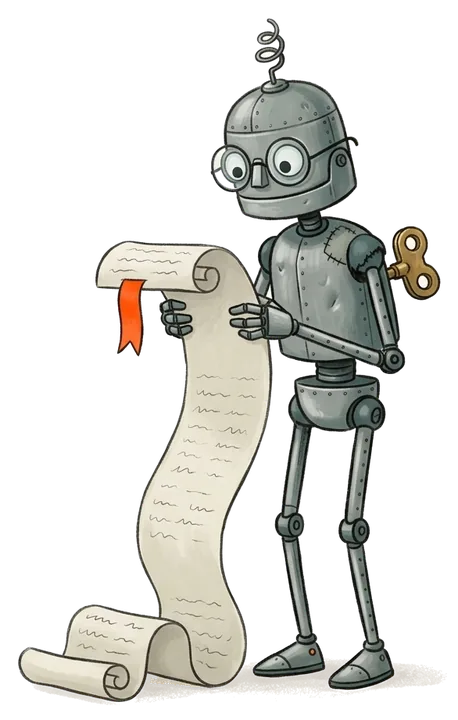
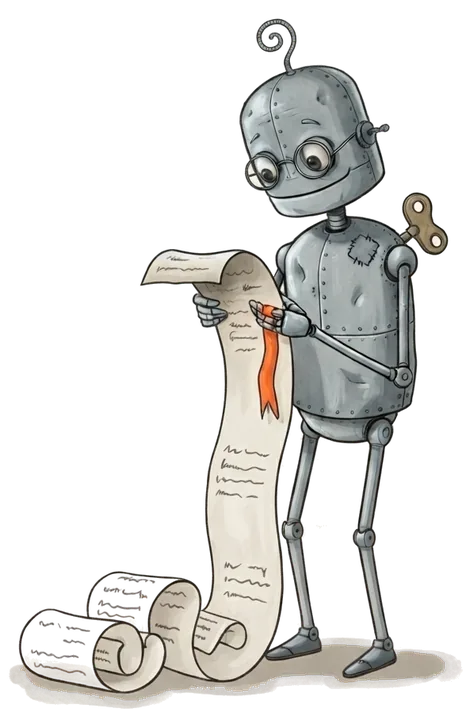
OD-157: use the daytime and nocturnal robot editions from Stitch
Each robot now has two editions, regenerated in Stitch: a daytime one on
paper and a nocturnal one with orange glows. Both are cut out to transparent
WebP; the light ones un-multiply the paper, the dark ones un-screen the night
ground, so shadows and glows stay translucent.

The theme picks the edition, following the device or the theme switch
(.robot-light and .robot-dark in globals.css). Lazy robots only download the
edition on screen; the eager header robots load both.

Claude-Session: https://claude.ai/code/session_018XMo65vPnKdNKwXLdbrnLU

diff --git a/site/src/components/robot.tsx b/site/src/components/robot.tsx
@@ -1,38 +1,40 @@
 // The Open DS robots (OD-157): a family of tin robots, each doing one design-system job.
-// Painted with Google Stitch, cut out to transparent WebP in public/robots/.
-// The paper is separated out, so the shadows are translucent and they read on light and dark.
+// Painted with Google Stitch in two editions: a daytime one on paper (<name>.webp) and a nocturnal
+// one (<name>-dark.webp). Both are cut out to transparent WebP in public/robots/, with the ground
+// separated out so shadows and glows stay translucent. The site theme picks the edition (CSS
+// .robot-light and .robot-dark in globals.css); the hidden one is lazy and never downloads.
 import type { ReactNode } from "react";
 
 export const ROBOTS = {
   swatch: {
     alt: "Swatch, a tall tin robot, holds up an orange colour card and a fan of paint swatches.",
-    width: 354,
-    height: 720,
+    light: [352, 720],
+    dark: [352, 720],
   },
   measure: {
     alt: "Measure, a tin robot with a loupe eye, measures the gap between two blocks with a folding ruler.",
-    width: 506,
-    height: 720,
+    light: [498, 720],
+    dark: [504, 720],
   },
   enquire: {
     alt: "Enquire, a round tin robot, holds up a sign with a question mark and taps its chin.",
-    width: 523,
-    height: 720,
+    light: [520, 720],
+    dark: [523, 720],
   },
   parcel: {
     alt: "Parcel, a sturdy tin robot, walks forward holding out a paper parcel with an orange wax seal.",
-    width: 449,
-    height: 720,
+    light: [444, 720],
+    dark: [449, 720],
   },
   slumber: {
     alt: "Slumber, a tin robot, sits curled up asleep with its wind-up key run down.",
-    width: 456,
-    height: 720,
+    light: [628, 688],
+    dark: [466, 720],
   },
   scroll: {
     alt: "Scroll, a tin robot in round glasses, reads a long paper scroll that coils at its feet.",
-    width: 458,
-    height: 720,
+    light: [466, 720],
+    dark: [475, 720],
   },
 } as const;
 
@@ -50,16 +52,21 @@ export function Robot({
   const r = ROBOTS[name];
   return (
     // Static export with unoptimized images, so a plain img is what next/image would emit anyway.
-    // eslint-disable-next-line @next/next/no-img-element
-    <img
-      src={`/robots/${name}.webp`}
-      alt={r.alt}
-      width={r.width}
-      height={r.height}
-      loading={priority ? "eager" : "lazy"}
-      decoding="async"
-      className={`select-none ${className}`}
-    />
+    <>
+      {(["light", "dark"] as const).map((mode) => (
+        // eslint-disable-next-line @next/next/no-img-element
+        <img
+          key={mode}
+          src={`/robots/${name}${mode === "dark" ? "-dark" : ""}.webp`}
+          alt={r.alt}
+          width={r[mode][0]}
+          height={r[mode][1]}
+          loading={priority ? "eager" : "lazy"}
+          decoding="async"
+          className={`robot-${mode} select-none ${className}`}
+        />
+      ))}
+    </>
   );
 }
 

diff --git a/site/src/app/globals.css b/site/src/app/globals.css
@@ -46,6 +46,25 @@
 
 /* Small ink elements (buttons, chips, badges) flip to cream on dark. The large ink blocks are
    marked .inverse and stay dark, on a deeper surface than the page. */
+/* The robots come in a daytime and a nocturnal edition; the theme shows one. */
+.robot-dark {
+  display: none;
+}
+@media (prefers-color-scheme: dark) {
+  :root:not([data-theme="light"]) .robot-light {
+    display: none;
+  }
+  :root:not([data-theme="light"]) .robot-dark {
+    display: block;
+  }
+}
+:root[data-theme="dark"] .robot-light {
+  display: none;
+}
+:root[data-theme="dark"] .robot-dark {
+  display: block;
+}
+
 .inverse {
   --color-ink: light-dark(#16140f, #0f0e0b);
   --color-paper: light-dark(#f6f2e9, #f1ebdd);
